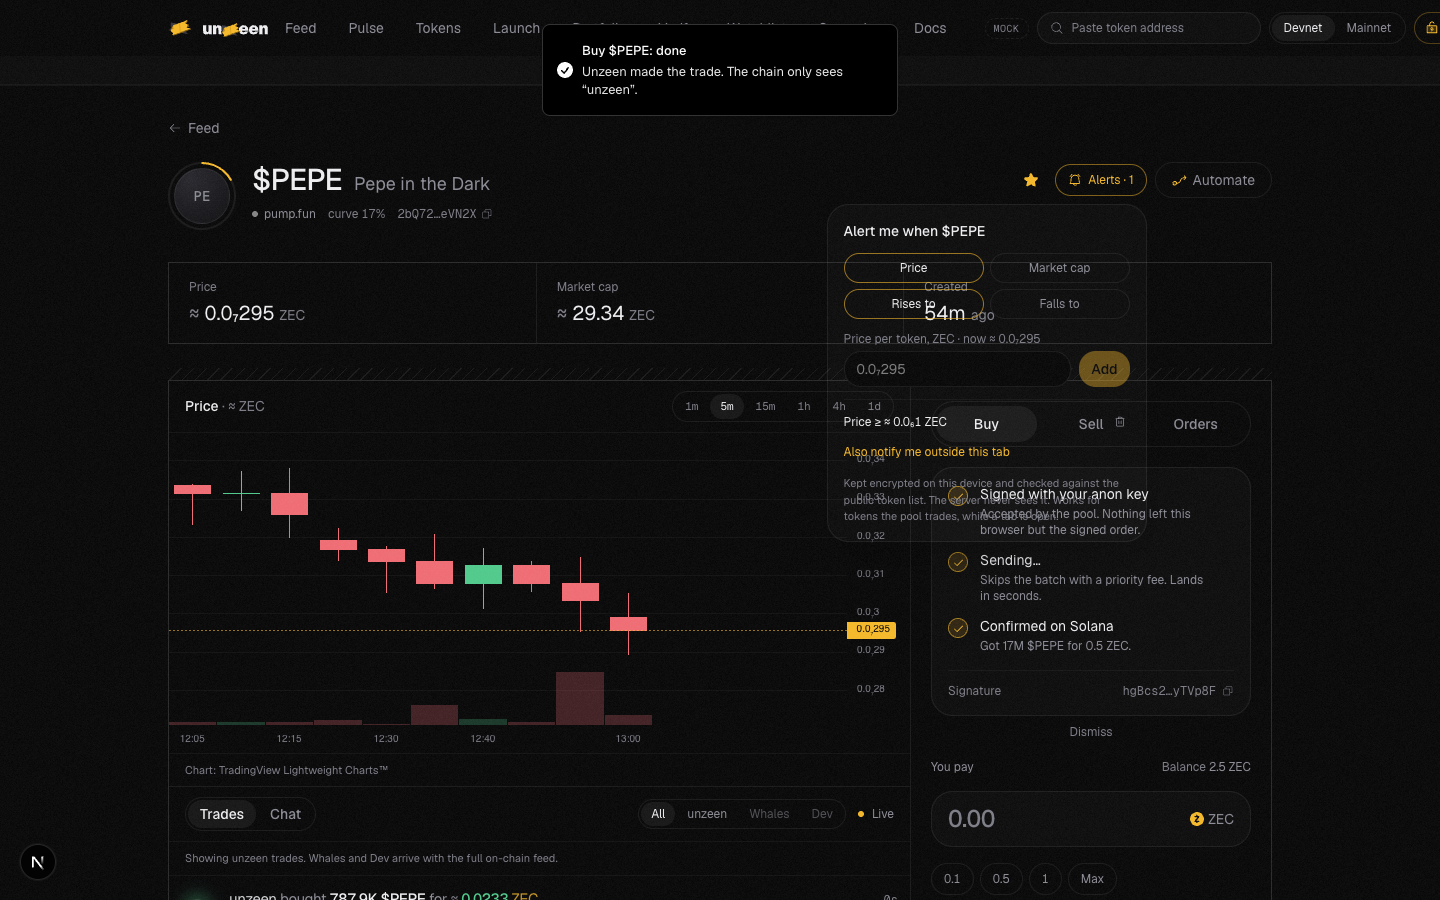
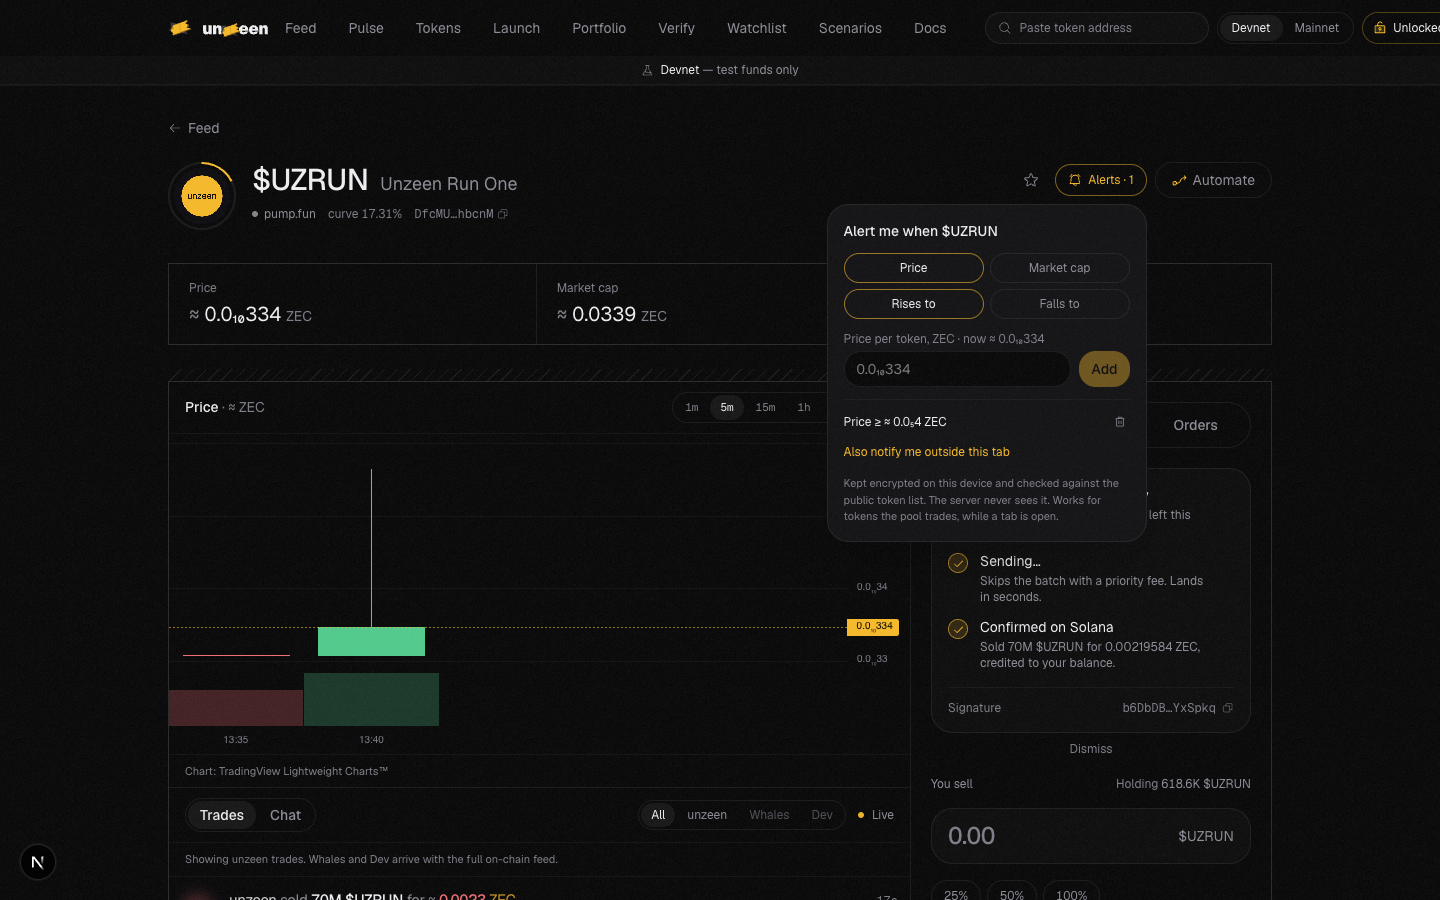
web: trade panel estimates the fuzzed and step-rounded buy amount (matches live fills), min received scaled accordingly; live Pulse and quote screenshots
Claude-Session: https://claude.ai/code/session_01LmbUzhPqR58YuKaDUmZiZH

diff --git a/web/lib/trade-curve.test.ts b/web/lib/trade-curve.test.ts
@@ -1,6 +1,6 @@
 // API v0.26: the curve impact estimate, the formula of docs/API.md and core/ledger/src/curve.rs (same cases as its tests).
 import { describe, expect, it } from "vitest";
-import { curveBuyOut, curveBuyPartial, curveFor, curveMarketCap, curveOf, tokenCurveOf, curveReserves, curveSellOut, effectiveFeeBps, isqrt, parseFeeTiers, quoteSell, tierBps, type CurveParams } from "./trade";
+import { d10Expected, quoteBuy, curveBuyOut, curveBuyPartial, curveFor, curveMarketCap, curveOf, tokenCurveOf, curveReserves, curveSellOut, effectiveFeeBps, isqrt, parseFeeTiers, quoteSell, tierBps, type CurveParams } from "./trade";
 
 /** pump.fun devnet Global 15.10, fee off for the AMM cases (as core's DEVNET); the fee is checked on its own. */
 const DEVNET: CurveParams = { virtualSol: BigInt(300_000_000), virtualTokens: BigInt("1073000000000000"), feeBps: 0 };
@@ -156,5 +156,23 @@ describe("pump.fun curve impact (devnet 0.3 SOL / 1.073e15)", () => {
     expect(curveBuyPartial(c, BigInt(40_000_000))).toBe(false); // net = 39.6M <= 40M
     expect(curveBuyPartial(c, BigInt(41_000_000))).toBe(true); // net = 40.59M > 40M
     expect(curveBuyPartial(null, BigInt(1) << BigInt(60))).toBe(false);
+  });
+
+  it("live devnet 18.10: the shown buy matches the real fill on pump.fun and Meteora DBC (D10 + curve + fee)", () => {
+    const rate = { lamportsPerZec: "11442500000", source: "fixed" as const, ts: 0 };
+    // UZRUN, pump.fun, Token.curve buyFee "added": 0.0012 ZEC -> 13 000 000 lamports sent, 36 274 722 314 045 base units filled.
+    const run = curveFor({ curve: { virtualSol: "331186983", virtualTokens: "971958518382141", feeBps: 125, buyFee: "added", buyLimitLamports: "818866641" } }, POOL, "pumpfun");
+    const a = quoteBuy(BigInt(120_000), rate, "0.00000000034074189", 6, 100, run)!;
+    expect(a.lamports).toBe(BigInt(13_000_000));
+    expect(absDiff(a.tokensOut, BigInt("36274722314045")) * BigInt(1000) <= BigInt("36274722314045")).toBe(true); // within 0.1 %
+    // UZDBC, Meteora DBC, buyFee "input": 458 673 750 790 filled for the same 13 000 000 lamports.
+    const dbc = curveFor({ curve: { virtualSol: "30048191421", virtualTokens: "1071345749397769", feeBps: 100, buyFee: "input", buyLimitLamports: "84963519660" } }, POOL, "meteora-dbc");
+    const b = quoteBuy(BigInt(120_000), rate, "0.000000028047146719", 6, 100, dbc)!;
+    expect(absDiff(b.tokensOut, BigInt("458673750790")) * BigInt(1000) <= BigInt("458673750790")).toBe(true);
+    // The signed limit stays on the full amount: the pool lowers it in proportion to what it sends.
+    expect(b.minOut > b.tokensOut).toBe(true);
+    expect(b.minOutShown! < b.tokensOut).toBe(true); // what the panel shows: below "You get"
+    expect(d10Expected(BigInt(13_731_000), 9)).toBe(BigInt(13_000_000));
+    expect(d10Expected(BigInt("123456789012345678"), 18)).toBe(BigInt("122800000000000000"));
   });
 });

diff --git a/web/lib/trade.ts b/web/lib/trade.ts
@@ -62,17 +62,37 @@ export const lamportsToZatCeil = (lamports: bigint, lamportsPerZec: bigint) =>
 export const withSlippage = (v: bigint, bps: number) => (v * (BPS - BigInt(bps))) / BPS;
 
 export interface BuyQuote {
+  /** Native units expected to reach the venue: after the pool's D10 trim and step (display, trade size). */
   lamports: bigint;
+  /** Tokens expected for `lamports` (display). */
   tokensOut: bigint;
-  /** What we sign: 0 when there is no rate to quote with (no price limit). */
+  /**
+   * What we sign: the limit for the full zecIn. The pool trims the buy (D10) and lowers minOut in the same
+   * proportion, so the minimum price stays the one signed here. 0 when there is no rate (no price limit).
+   */
   minOut: bigint;
+  /** minOut as the pool will apply it to `lamports` (scaled the same way): what "Min received" shows. */
+  minOutShown?: bigint;
+}
+
+/**
+ * D10 (docs/API.md): the pool trims a buy by a random 0–1 % and rounds it DOWN to its step (0.001 SOL; 0.0001 ETH on
+ * Robinhood Chain), refunding the rest in ZEC. Expected amount: the mid trim (0.5 %), then the step. Live devnet
+ * 18.10: 0.0137 SOL asked went out as 0.013 SOL, so a quote at the full amount read ~5 % high.
+ */
+export function d10Expected(lamports: bigint, nativeDecimals: number = nativeOf().decimals): bigint {
+  const step = nativeDecimals >= 18 ? TEN ** BigInt(nativeDecimals - 4) : TEN ** BigInt(Math.max(0, nativeDecimals - 3));
+  const trimmed = (lamports * BigInt(995)) / BigInt(1000);
+  return trimmed - (trimmed % step);
 }
 
 export function quoteBuy(zecIn: bigint, rate: SolRateUsed | null, priceSol: string, decimals: number, slippageBps: number, curve: CurveParams | null = null): BuyQuote | null {
   if (!rate) return null;
-  const lamports = zatToLamports(zecIn, BigInt(rate.lamportsPerZec));
-  const tokensOut = (curve && curveBuyOut(curve, priceSol, decimals, lamports)) ?? lamportsToTokens(lamports, priceSol, decimals);
-  return { lamports, tokensOut, minOut: withSlippage(tokensOut, slippageBps) };
+  const full = zatToLamports(zecIn, BigInt(rate.lamportsPerZec));
+  const out = (x: bigint) => (curve && curveBuyOut(curve, priceSol, decimals, x)) ?? lamportsToTokens(x, priceSol, decimals);
+  const lamports = d10Expected(full);
+  const minOut = withSlippage(out(full), slippageBps);
+  return { lamports, tokensOut: out(lamports), minOut, minOutShown: full > ZERO ? (minOut * lamports) / full : minOut };
 }
 
 export interface SellQuote {

diff --git a/web/components/trade/trade-panel.tsx b/web/components/trade/trade-panel.tsx
@@ -637,7 +637,7 @@ function Quote({
       ? [
           ["You get", <span key="v" className="text-foreground">≈ {formatCompact(unitsToNumber(quote.tokensOut.toString(), token.decimals))} {sym}</span>],
           ["Trade size", size("lamports" in quote ? quote.lamports : null, "quoteUnits" in quote ? quote.quoteUnits : null)],
-          [`Min received · ${slippage / 100}%`, `${formatCompact(unitsToNumber(quote.minOut.toString(), token.decimals))} ${sym}`],
+          [`Min received · ${slippage / 100}%`, `${formatCompact(unitsToNumber(("minOutShown" in quote && quote.minOutShown !== undefined ? quote.minOutShown : quote.minOut).toString(), token.decimals))} ${sym}`],
         ]
       : [
           ["You receive", <span key="v" className="text-foreground">≈ {formatZec(quote.zecOut.toString())} <CoinIcon symbol="ZEC" size={12} /> ZEC</span>],

diff --git a/web/lib/trade.test.ts b/web/lib/trade.test.ts
@@ -32,8 +32,9 @@ describe("trade math", () => {
   it("quotes a buy with slippage", () => {
     // 0.1 ZEC at 2 SOL/ZEC = 0.2 SOL; at 1e-6 SOL/token -> 200k tokens (6 dp)
     const q = quoteBuy(BigInt(10_000_000), rate("2000000000"), "0.000001", 6, 100)!;
-    expect(q.lamports).toBe(BigInt(200_000_000));
-    expect(q.tokensOut).toBe(BigInt("200000000000"));
+    // D10: 0.2 SOL trimmed by the mid 0.5 % -> 0.199 SOL after the 0.001 step; the limit stays on the full 0.2 SOL.
+    expect(q.lamports).toBe(BigInt(199_000_000));
+    expect(q.tokensOut).toBe(BigInt("199000000000"));
     expect(q.minOut).toBe(BigInt("198000000000"));
     expect(quoteBuy(BigInt(1), null, "1", 6, 100)).toBeNull();
   });
